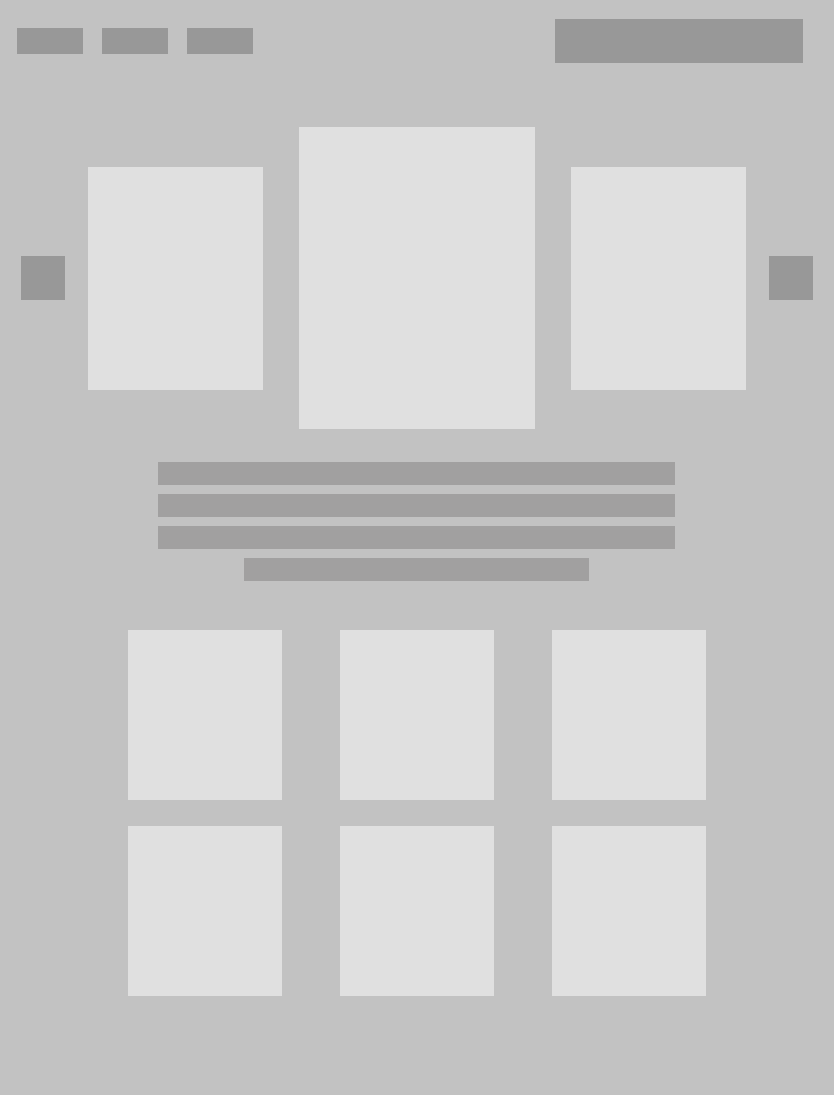
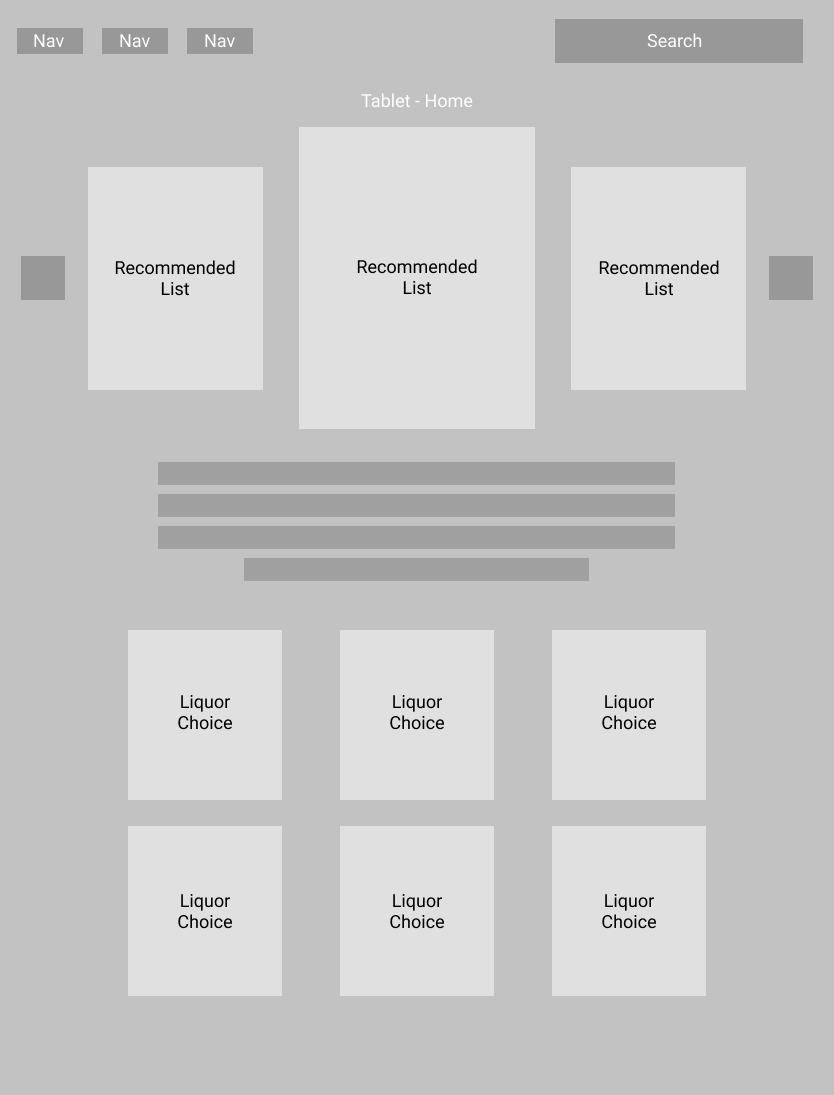
Added wireframe images

diff --git a/index.html b/index.html
@@ -1,0 +1,13 @@
+<!DOCTYPE html>
+<html lang="en">
+  <head>
+    <meta charset="UTF-8" />
+    <meta name="viewport" content="width=device-width, initial-scale=1.0" />
+    <meta http-equiv="X-UA-Compatible" content="ie=edge" />
+    <title>Cocktail Calories</title>
+    <link rel="stylesheet" href="main.css" />
+  </head>
+  <body>
+    <script src="app.js"></script>
+  </body>
+</html>
